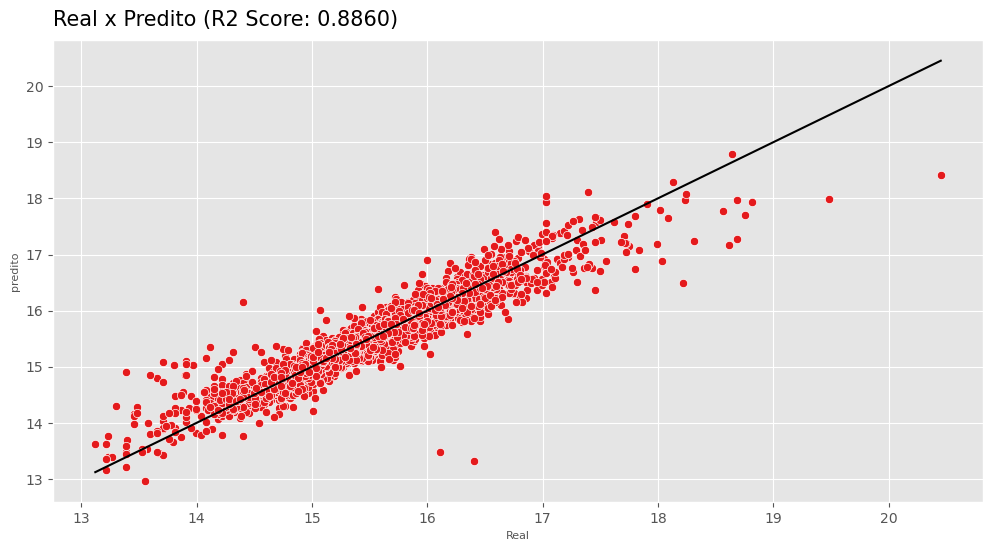
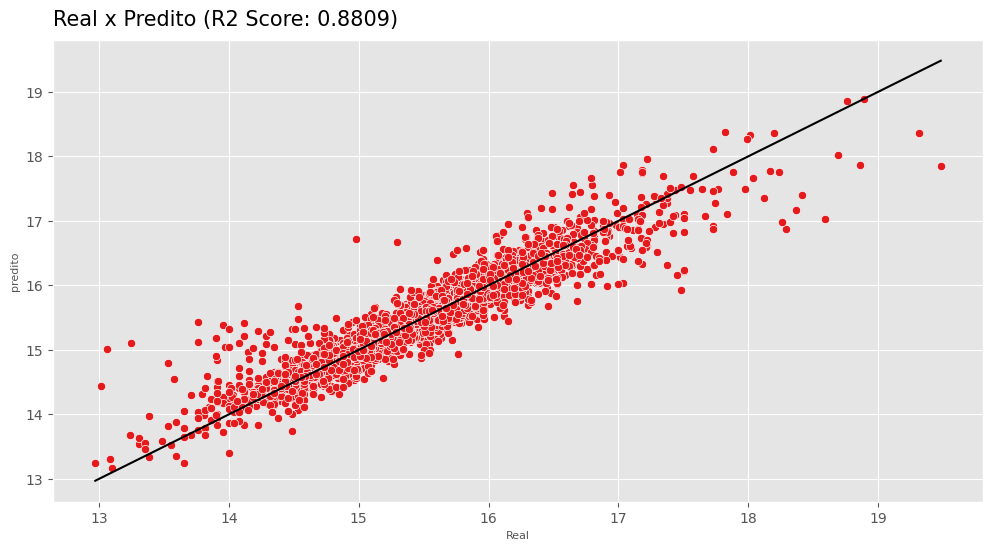
update: novo readme

diff --git a/readme.md b/readme.md
@@ -54,28 +54,28 @@ Os dados foram originalmente encontrados no [Kaggle](https://www.kaggle.com/data
 - Mean Squared Error, Root Mean Squared Error, Mean Absolute Error, R2 Score.
 
 ## Resultados
-#### Modelo base
+#### Conjunto de validação
 |Métrica|Resultado|
 |---|---|
-|Mean Squared Error|0.0467|
-|Root Mean Squared Error|0.2161|
-|Mean Absolute Error|0.1411|
-|R2 Score|0.8859|
+|MSE| 0.0503|
+|RMSE| 0.2244|
+|MAE| 0.1482|
+|R2 Score| 0.8809|
 
 ![](doc/img/plots/plot4.png)
 
-#### Modelo com hiper-parâmetros otimizados
+#### Conjunto de testes
 |Métrica|Resultado|
 |---|---|
-|Mean Squared Error|0.03914|
-|Root Mean Squared Error|0.1978|
-|Mean Absolute Error|0.1349|
-|R2 Score|0.9044|
+|MSE| 0.0557|
+|RMSE| 0.2359|
+|MAE| 0.1440|
+|R2 Score| 0.8777|
 
-![](doc/img/plots/plot5.png)
+![](doc/img/plots/plot7.png)
 
 #### Feature Importances
-![](doc/img/plots/plot6.png)
+![](doc/img/plots/plot8.png)
 
 ## Ferramentas utilizadas
 ![Python](https://img.shields.io/badge/python-3670A0?style=for-the-badge&logo=python&logoColor=ffdd54)![Visual Studio Code](https://img.shields.io/badge/Visual%20Studio%20Code-0078d7.svg?style=for-the-badge&logo=visual-studio-code&logoColor=white)![Jupyter Notebook](https://img.shields.io/badge/jupyter-%23FA0F00.svg?style=for-the-badge&logo=jupyter&logoColor=white)
